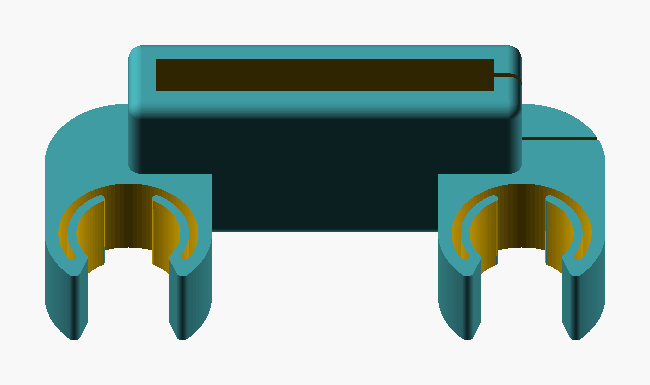
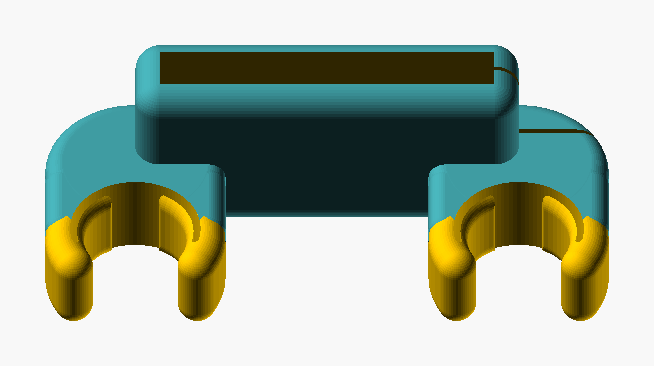
Add the two-way cord clip and finish the soft-edge pass
- 🪢 New `two_way_clip`: two hose clips 180° apart, tapered together at the
  hub, with a cord hole through it. Config section, print plate, README and
  baseline included.
- 🧵 The lower octi clip gets the same flared webbing slit as the upper clips
  when `tpu_mode` is on.
- 🤏 Hose sizes now say to subtract 0.5 mm for a snug fit, and the octi clip
  defaults are 0.5 mm smaller.
- 🧼 README images regenerated for every model, so they show the soft edges.
  The rounding is not perfect: where two rounded faces meet, a small crease can
  remain. It is still more than adequate for a printed part.
- ✅ Tests updated: the total-diameter check now counts both walls and the gap,
  and the model list asserts the five real parts.

Testing: `uv run cli lint`, `uv run cli typecheck`,
`uv run cli check-config-example`, `uv run ruff check api tests main.py`,
`uv run pytest` (13 passed), `uv run cli check-baseline` (all 7 models pass).
Not tested: a physical print of the two-way clip.

Changed region(s): [[0.0615, 0.0902, 0.9538, 0.9016]]

diff --git a/models/two_way_clip.py b/models/two_way_clip.py
@@ -1,0 +1,92 @@
+"""Two-way cord clip: keeps two hoses together and gives a cord a place to pass
+through.
+
+Each hose clip opens away from the other, so the pair sits 180 degrees apart.
+Each clip sits on a standoff arm that flares to the centre, and the two arms
+meet to form the hub with one taper from the larger hose to the smaller one. A
+hole runs through that hub along the hose axis, so a cord or a zip tie can hold
+the clip to a D-ring or a bolt snap. This part's tuning comes from
+lib/config.py.
+
+Render:
+    uv run tools/render.py models/two_way_clip.py build
+"""
+
+from __future__ import annotations
+
+from typing import Final
+
+from lib.config import CONFIG, hose_clip_total_diameter
+from lib.scad import OpenSCADObjectPlus, cylinder
+from lib.standoff import hose_clip_on_standoff
+
+EXPECTED_REGIONS: Final = 1
+
+
+def two_way_clip() -> OpenSCADObjectPlus:
+    """The part: two standoff hose clips with their openings turned away from
+    each other, their flared arms tapered together at the hub, and the cord hole
+    through it."""
+    clip_config = CONFIG.two_way_clip
+    library = CONFIG.library
+
+    hose_1_diameter = clip_config.hose_1_diameter
+    hose_2_diameter = clip_config.hose_2_diameter
+    grip_length = clip_config.clip_grip_length
+    clip_center_distance = clip_config.clip_center_distance
+    cord_hole_diameter = clip_config.cord_hole_diameter
+    backbone_wall_thickness = library.clip_backbone_wall_thickness
+
+    if hose_1_diameter <= 0:
+        raise ValueError("two_way_clip: hose_1_diameter must be positive")
+    if hose_2_diameter <= 0:
+        raise ValueError("two_way_clip: hose_2_diameter must be positive")
+    if grip_length <= 0:
+        raise ValueError("two_way_clip: clip_grip_length must be positive")
+    if clip_center_distance <= 0:
+        raise ValueError("two_way_clip: clip_center_distance must be positive")
+    if cord_hole_diameter <= 0:
+        raise ValueError("two_way_clip: cord_hole_diameter must be positive")
+
+    clip_1_radius = hose_clip_total_diameter(hose_1_diameter) / 2
+    clip_2_radius = hose_clip_total_diameter(hose_2_diameter) / 2
+    # Each arm flares from its own clip to the hub. Both reach the same hub
+    # width, halfway between the two clip widths, so the two tapers form one
+    # straight taper from the larger clip to the smaller one.
+    hub_width = clip_1_radius + clip_2_radius
+    if cord_hole_diameter / 2 + backbone_wall_thickness > hub_width / 2:
+        raise ValueError(
+            "two_way_clip: the cord hole leaves too little wall in the hub"
+        )
+    if cord_hole_diameter / 2 + backbone_wall_thickness > grip_length / 2:
+        raise ValueError(
+            "two_way_clip: the cord hole leaves too little wall in the hub height"
+        )
+
+    # Each arm runs past the centre by the rounding radius, so its rounded base
+    # edge is buried in the other arm. Without that overlap the two rounded base
+    # edges meet at the centre and leave a groove, the divot seen from the side.
+    overlap = library.standoff_rounding_radius
+
+    def standoff_clip(hose_diameter: float) -> OpenSCADObjectPlus:
+        """One standoff hose clip: its centre on the origin, its opening on +X
+        and its arm flaring back along -X past the hub centre."""
+        return hose_clip_on_standoff(
+            height=grip_length,
+            hose_diameter=hose_diameter,
+            standoff_height=clip_center_distance + overlap,
+            origin="center",
+            base_diameter=hub_width,
+            backbone_wall_thickness=backbone_wall_thickness,
+            round_base=False,
+        ).rotate(0, 0, -90)
+
+    # The +X clip carries hose 1. The mirror turns the opening to -X and puts
+    # the second clip on the -X side, so the pair is 180 degrees apart.
+    clips = standoff_clip(hose_1_diameter).translate(clip_center_distance, 0, 0)
+    clips += standoff_clip(hose_2_diameter).translate(
+        clip_center_distance, 0, 0
+    ).mirror(1, 0, 0)
+    cord_hole = cylinder(h=grip_length + 1, d=cord_hole_diameter, center=True)
+
+    return clips - cord_hole

diff --git a/lib/config.py b/lib/config.py
@@ -78,26 +78,37 @@ class HardwareConfig:
     A hose only has a high pressure or a low pressure. Each hose type still
     needs its own diameter: a size up or down changes how hard the clip lets
     the hose go.
+
+    Set each diameter to the real size of the hose or fitting. The kit cuts the
+    clip to that exact size and takes off no snug allowance of its own. Subtract
+    0.5 mm from a hose diameter if you want the clip to grip the hose tighter.
     """
 
     inflator_tube_diameter: float = _field(
         27.0, "BCD inflator tube, held by the combo clip."
     )
     lp_inflator_hose_diameter: float = _field(
-        12, "LP hose, first stage to the BCD inflator."
+        12, "LP hose, first stage to the BCD inflator. Subtract 0.5 for a snug fit."
     )
-    spg_hose_diameter: float = _field(8.0, "HP hose, first stage to the SPG.")
+    spg_hose_diameter: float = _field(
+        8.0, "HP hose, first stage to the SPG. Subtract 0.5 for a snug fit."
+    )
     regulator_fitting_diameter: float = _field(
-        18.5, "LP hose fitting at the second stage, held by the octi clip."
+        18,
+        "LP hose fitting at the second stage, held by the octi clip. "
+        "Subtract 0.5 for a snug fit.",
     )
     regulator_fitting_length: float = _field(
         15.0, "Length of that fitting; the octi clip grips this length."
     )
     regulator_hose_diameter: float = _field(
-        12, "LP hose, first stage to the second stage."
+        11.5,
+        "LP hose, first stage to the second stage. Subtract 0.5 for a snug fit.",
     )
     side_clip_hose_diameter: float = _field(
-        12, "LP hose held by the lower octopus retaining clip."
+        11.5,
+        "LP hose held by the lower octopus retaining clip. Subtract 0.5 for a "
+        "snug fit.",
     )
     tongue_back_angle: float = _field(
         60.0, "Tongue opening at the back (closed side) of a hose clip, in degrees."
@@ -192,6 +203,27 @@ class LowerOctiRetainingClipConfig:
 
 
 @dataclass(frozen=True)
+class TwoWayClipConfig:
+    """Tuning of the two-way cord clip that keeps two hoses together."""
+
+    hose_1_diameter: float = _field(
+        8.0,
+        "Hose in the clip on the +X side. Subtract 0.5 for a snug fit.",
+    )
+    hose_2_diameter: float = _field(
+        11.5,
+        "Hose in the clip on the -X side. Subtract 0.5 for a snug fit.",
+    )
+    clip_grip_length: float = _field(10.0, "Length of hose each clip grips.")
+    clip_center_distance: float = _field(
+        10.0, "Distance from the hub centre to each clip centre."
+    )
+    cord_hole_diameter: float = _field(
+        4.0, "Diameter of the cord hole through the hub, along the hoses."
+    )
+
+
+@dataclass(frozen=True)
 class Config:
     """Every default, grouped by the section it is written under in TOML."""
 
@@ -205,6 +237,7 @@ class Config:
     lower_octi_retaining_clip: LowerOctiRetainingClipConfig = field(
         default_factory=LowerOctiRetainingClipConfig
     )
+    two_way_clip: TwoWayClipConfig = field(default_factory=TwoWayClipConfig)
 
 
 ConfigT = TypeVar("ConfigT")

diff --git a/tools/render.py b/tools/render.py
@@ -16,7 +16,7 @@ model file name without its extension.  A PNG is trimmed to the geometry plus a
 floating in background.  The full OpenSCAD output goes to <outdir>/<name>.log.
 
 The plate's region count is checked against the model's own EXPECTED_REGIONS:
-models/all.py says 3, each single part 1.  --components N overrides it.  A
+models/all.py says 5, each single part 1.  --components N overrides it.  A
 mismatch is a WARNING, not a failure: a camera that merges two parts is worth
 saying, but it is a judgement call.  The count used to be a hard-coded 3 here,
 which meant a camera change could quietly stop showing a part while the render
@@ -61,11 +61,10 @@ if str(ROOT) not in sys.path:
 #           bores read as enclosed holes only at no spin (33 enclosed background
 #           cells against 0 at 45/30), which is the feature that identifies that
 #           part [0.51].
-# 45,0, 0 : hero plate.  The print plate is L-shaped (three parts), and the
-#           webbing clip sits 50 mm behind the combo clip while both are 50..60 mm
-#           wide.  Measured: tilt 0..50 keeps three separate silhouettes, tilt 60
-#           and above merges them into one blob.  45 keeps 5 degrees of margin
-#           below the flip and still shows the parts in three-quarter view [0.09].
+# 45,0, 0 : hero plate.  The print plate holds five parts: a 2x2 grid plus the
+#           two-way clip to the side.  At 45 degrees of tilt all five stay
+#           separate silhouettes (png_check counts 5), and the parts still show
+#           in three-quarter view [0.20].
 # 30,0,90 : the octi clip's bores run along Z, so a near-plan view looks down
 #           them and shows them as holes; a three-quarter view hides them and
 #           reads as the back of the part.  Enclosed bore pixels: 1856 at tilt 25,

diff --git a/models/all.py b/models/all.py
@@ -1,8 +1,8 @@
-"""Print plate: the four parts in one render, in the old plate layout. It
+"""Print plate: the five parts in one render, in the old plate layout. It
 holds no sizes: each part reads its own tuning from lib/config.py.
 
 `import`, never a build at import time: the models expose builder functions, so
-this module can import the four parts and call each one once.
+this module can import the five parts and call each one once.
 
 Render:
     uv run tools/render.py models/all.py build
@@ -15,17 +15,19 @@ from typing import Final
 from lib.scad import OpenSCADObjectPlus
 from models.inflator_spg_combo_clip import inflator_spg_combo_clip
 from models.lower_octi_retaining_clip import lower_octi_retaining_clip
+from models.two_way_clip import two_way_clip
 from models.upper_inflator_retaining_clip import upper_inflator_retaining_clip
 from models.upper_octi_retaining_clip import upper_octi_retaining_clip
 
-EXPECTED_REGIONS: Final = 4
+EXPECTED_REGIONS: Final = 5
 
 
 def all() -> OpenSCADObjectPlus:
-    """The print plate: all four parts, placed in the old layout."""
+    """The print plate: all five parts, placed in the old layout."""
 
     scene = inflator_spg_combo_clip()
     scene += upper_octi_retaining_clip().translate(100, 0, 0)
     scene += lower_octi_retaining_clip().translate(0, -100, 0)
     scene += upper_inflator_retaining_clip().translate(100, -100, 0)
+    scene += two_way_clip().translate(200, 0, 0)
     return scene

diff --git a/tests/test_generator.py b/tests/test_generator.py
@@ -5,7 +5,12 @@ from __future__ import annotations
 from concurrent.futures import ThreadPoolExecutor
 
 from api.support.generator import render_scad
-from lib.config import Config, build_config, hose_clip_total_diameter, set_config
+from lib.config import (
+    Config,
+    build_config,
+    hose_clip_total_diameter,
+    set_config,
+)
 
 MODEL = "upper_inflator_retaining_clip"
 
@@ -67,9 +72,16 @@ def test_hose_clip_total_diameter__reads_changed_library_wall_at_call_time() -> 
     If this test fails, then the wall was frozen at import time and a library
     change does not reach the diameter.
     """
-    set_config(build_config({"library": {"clip_backbone_wall_thickness": 5.0}}))
+    overridden = build_config({"library": {"clip_backbone_wall_thickness": 5.0}})
+    set_config(overridden)
     try:
-        expected = 27.0 + 2.0 / 2 + 2.0 + 5.0
+        library = overridden.library
+        expected = (
+            27.0
+            + library.clip_tongue_wall_thickness * 2
+            + library.clip_radial_gap * 2
+            + library.clip_backbone_wall_thickness * 2
+        )
         assert hose_clip_total_diameter(27.0) == expected, (
             "Expected the backbone wall to come from the current CONFIG at call time."
         )

diff --git a/tests/test_config_schema.py b/tests/test_config_schema.py
@@ -43,16 +43,19 @@ def test_model_names__excludes_the_plate_and_the_dev_models() -> None:
     """The editor offers one real clip at a time, not the plate or the dev tools.
 
     The plate and `models/dev/` are print and test aids, and the client cannot
-    render them as a single clip. The list must hold the four real parts.
+    render them as a single clip. The list must hold the five real parts.
 
     If this test fails, then a dev model or the plate leaked into the editor, or
     a real part is missing.
     """
     names = model_names()
-    assert "all" not in names, "Expected the print plate to stay out of the model list."
-    assert "dev" not in " ".join(names), (
-        "Expected no model under models/dev/ to appear in the model list."
-    )
-    assert "upper_inflator_retaining_clip" in names, (
-        "Expected the real clip models to appear in the model list."
+    expected = {
+        "inflator_spg_combo_clip",
+        "lower_octi_retaining_clip",
+        "two_way_clip",
+        "upper_inflator_retaining_clip",
+        "upper_octi_retaining_clip",
+    }
+    assert set(names) == expected, (
+        f"Expected the list to hold the five real parts, got {sorted(names)}."
     )

diff --git a/models/lower_octi_retaining_clip.py b/models/lower_octi_retaining_clip.py
@@ -14,6 +14,7 @@ from lib.config import CONFIG
 from lib.scad import OpenSCADObjectPlus, cube
 from lib.shapes import rounded_cube
 from lib.standoff import hose_clip_on_standoff
+from lib.webbing import flared_webbing_slit
 
 EXPECTED_REGIONS: Final = 1
 
@@ -84,8 +85,20 @@ def lower_octi_retaining_clip() -> OpenSCADObjectPlus:
     # the block, so the webbing slides in.
     cuts = cube(
         size=[webbing_width, webbing_thickness, block_height + 1], center=True
-    ) + cube(
-        size=[block_width, webbing_clearance, block_height + 1], center=True
-    ).translate(block_width / -2, 0, 0)
+    )
+
+    if CONFIG.library.tpu_mode:
+        cuts += flared_webbing_slit(
+            webbing_width=webbing_width,
+            webbing_thickness=webbing_thickness - 1,
+            strap_block_height=block_height,
+            slit_tightness=webbing_thickness,
+            slit_flare_start=0.1,
+            wall_thickness=wall_thickness,
+        ).mirror(0, 1, 0)
+    else:
+        cuts += cube(
+            size=[block_width, webbing_clearance, block_height + 1], center=True
+        ).translate(block_width / -2, 0, 0)
 
     return body - cuts

diff --git a/tools/png_check.py b/tools/png_check.py
@@ -10,7 +10,7 @@ Exit code 1 if an image is unreadable, blank, or clipped at the frame edge.  A
 region count that does not match --components N is a WARNING instead: how a
 camera splits a part into silhouettes is a judgement call, so it is worth
 reporting and not worth blocking an otherwise good render over.  A plate that
-should show three parts but resolves into two has hidden one of them.
+should show five parts but resolves into four has hidden one of them.
 """
 import os
 import sys

diff --git a/README.md b/README.md
@@ -28,6 +28,16 @@ Is this overkill to replace the velcro? Maybe, but I didn't like it, so I replac
 |-|
 |![](.readme_images/upper_inflator_retaining_clip.png)|
 
+### Two-way cord clip
+For when two hoses only need to stay together. The two clips open away from each other (180°), and the rounded middle tapers from one hose size to the other. A small hole runs through that middle between them. A cord or a zip tie goes through the hole, so you can tie the clip to a D-ring or a bolt snap.
+
+||
+|-|
+|![](.readme_images/two_way_clip.png)|
+
+### Soft edges
+Every clip has soft, rounded edges now. The rounding is not perfect: where two rounded faces meet, a small crease can remain. It is still more than good enough for a printed part, and it keeps the edges from cutting into the hose.
+
 
 ## So... how do I build the models myself? 🤩
 
@@ -41,6 +51,12 @@ Is this overkill to replace the velcro? Maybe, but I didn't like it, so I replac
 ### Configuration ⚙
 
 Copy `config.example.toml` to `config.toml` and update the measurements to match your own kit's spacing, diameters and webbing configuration.
+
+### Fit 🤏
+
+The generator cuts each hose clip to the diameter you set, and it takes off no
+snug allowance of its own. Set each hose diameter to the real hose size. When
+you want a clip to grip the hose tighter, subtract 0.5 mm from that number.
 
 ### Generate the clips ✨
 
